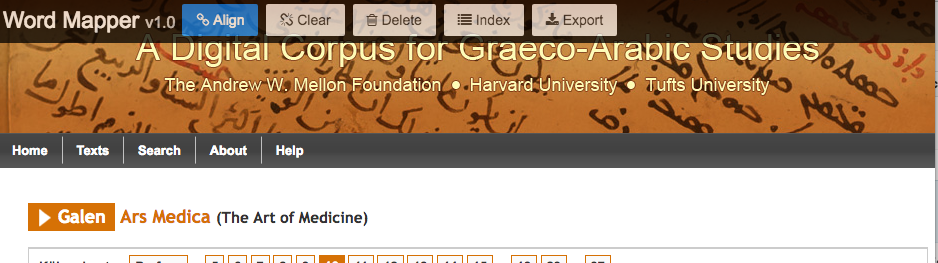
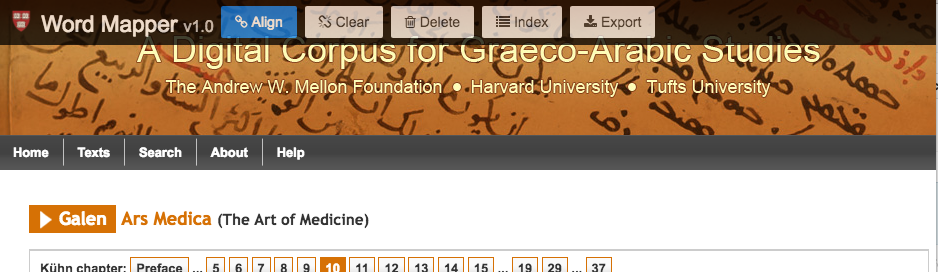
WordMapper_widget_branding, proposed screen and UI

diff --git a/WordMapper_widget_branding/index.html b/WordMapper_widget_branding/index.html
@@ -3,6 +3,9 @@
 		<!-- wordmapper/client/src/html/panel.html -->
 		<div class="wordmapper wordmapper-panel wordmapper-panel-top">
 		  <div class="wordmapper-logo">
+
+<!-- UI comment - introduce Harvard branding. You may need to copy this logo asset on a more appropraite location -->
+			<img src="http://guidelines.hwp.harvard.edu/system/files/styles/os_files_small/private/guidelines/files/shield_rgb.png?itok=MpxLoPm7" style="margin:.45em .15em 0 .25em;" height="22em">
 		    Word Mapper <small>v1.0</small>
 		  </div>
 		  <div class="wordmapper-buttons">
